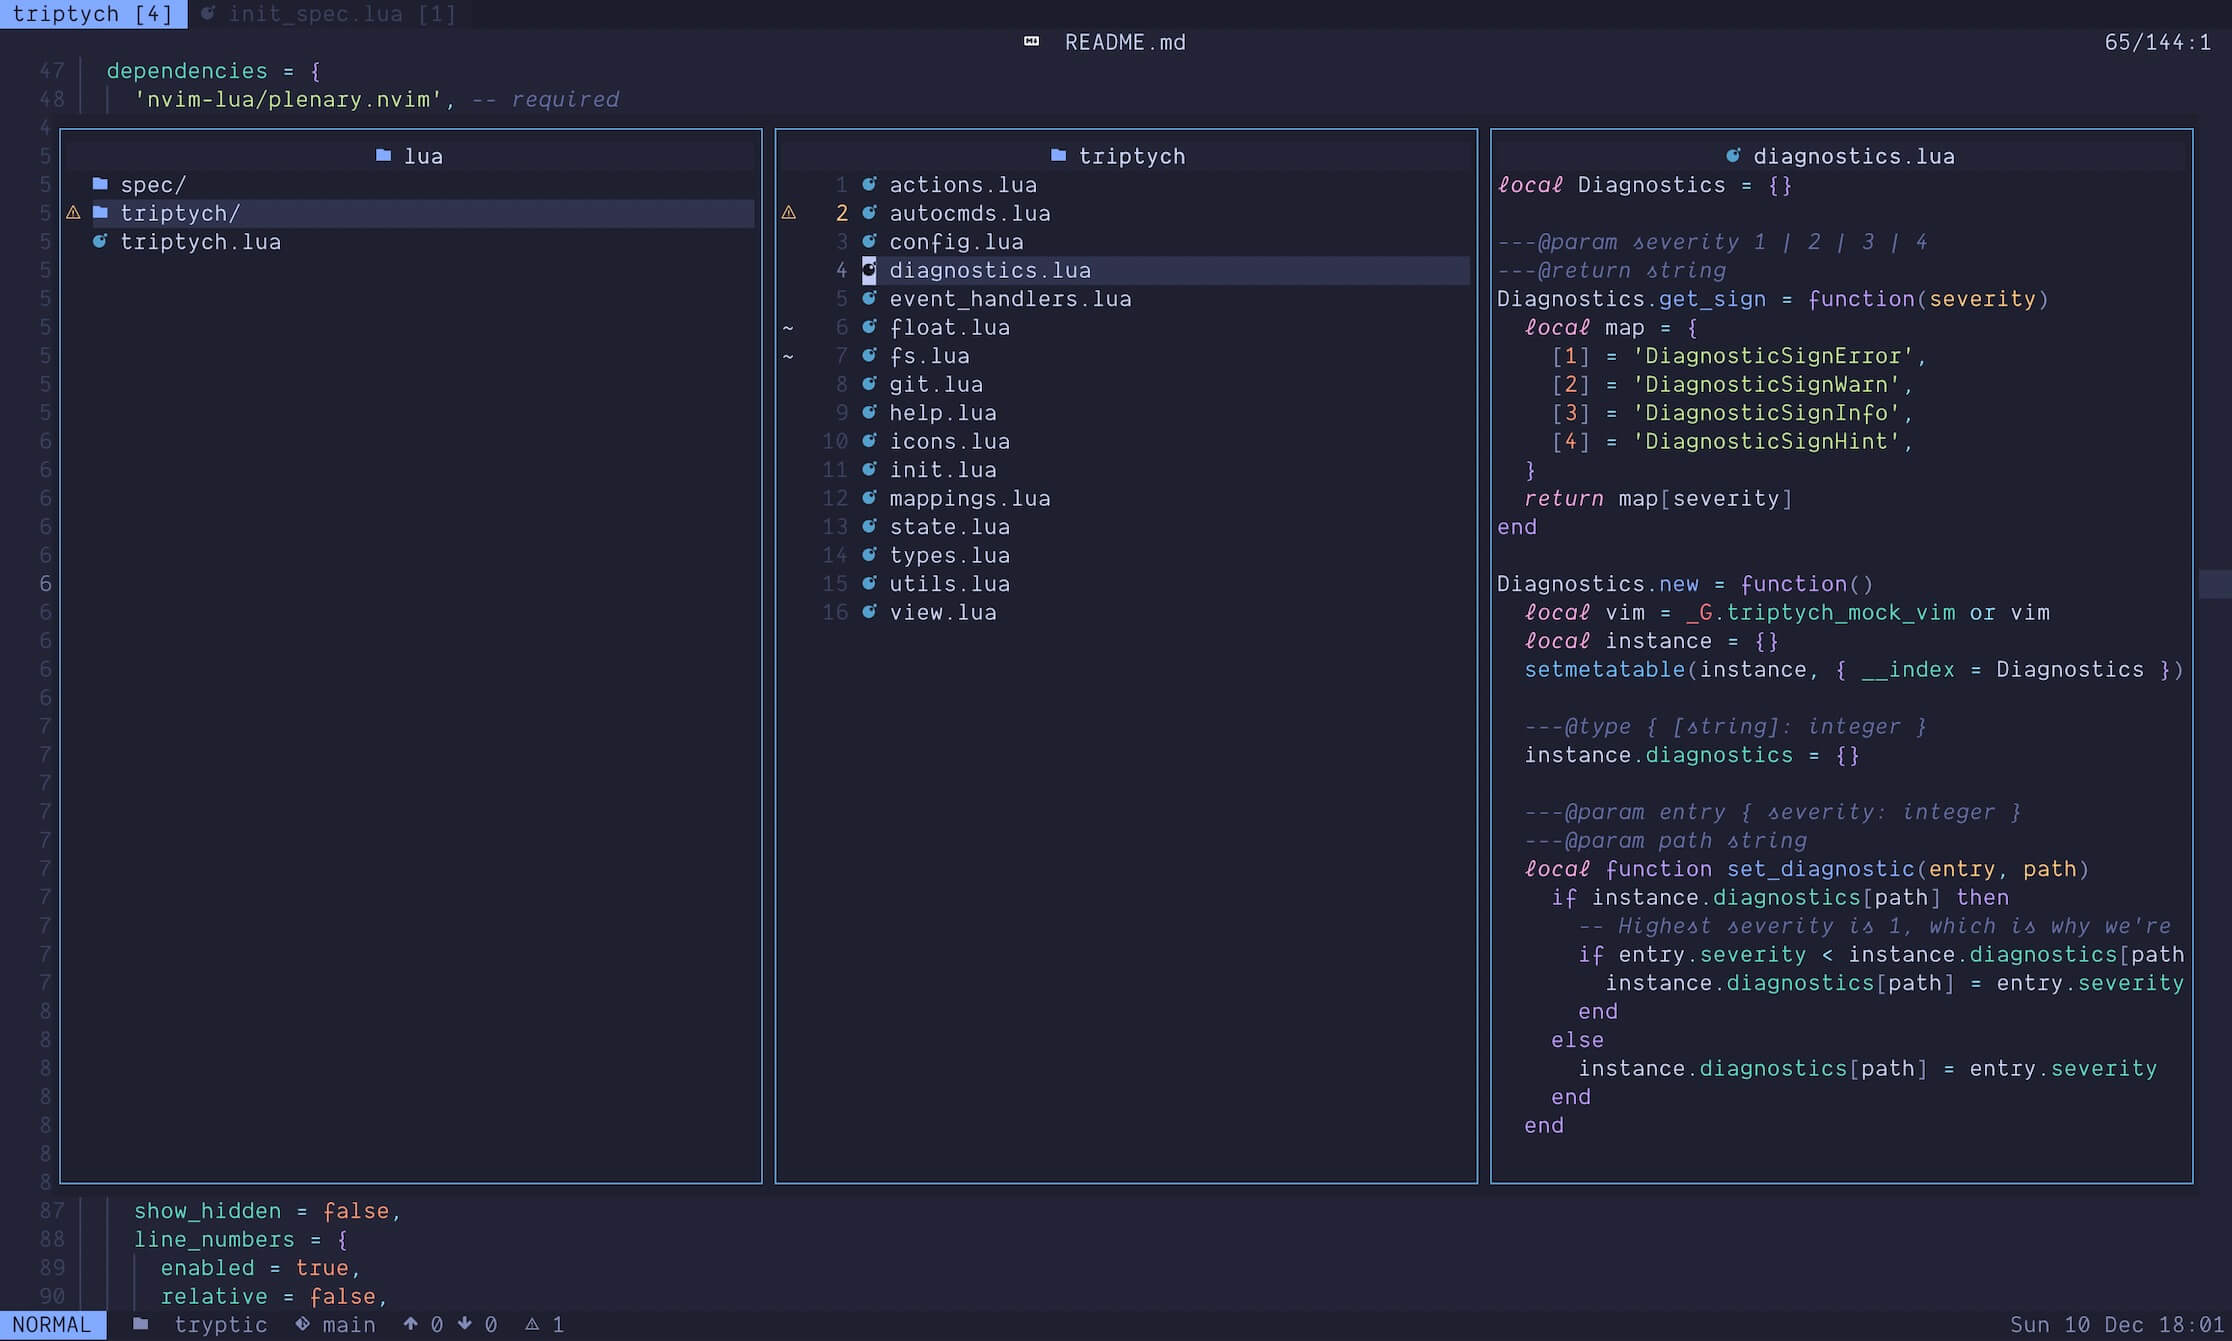
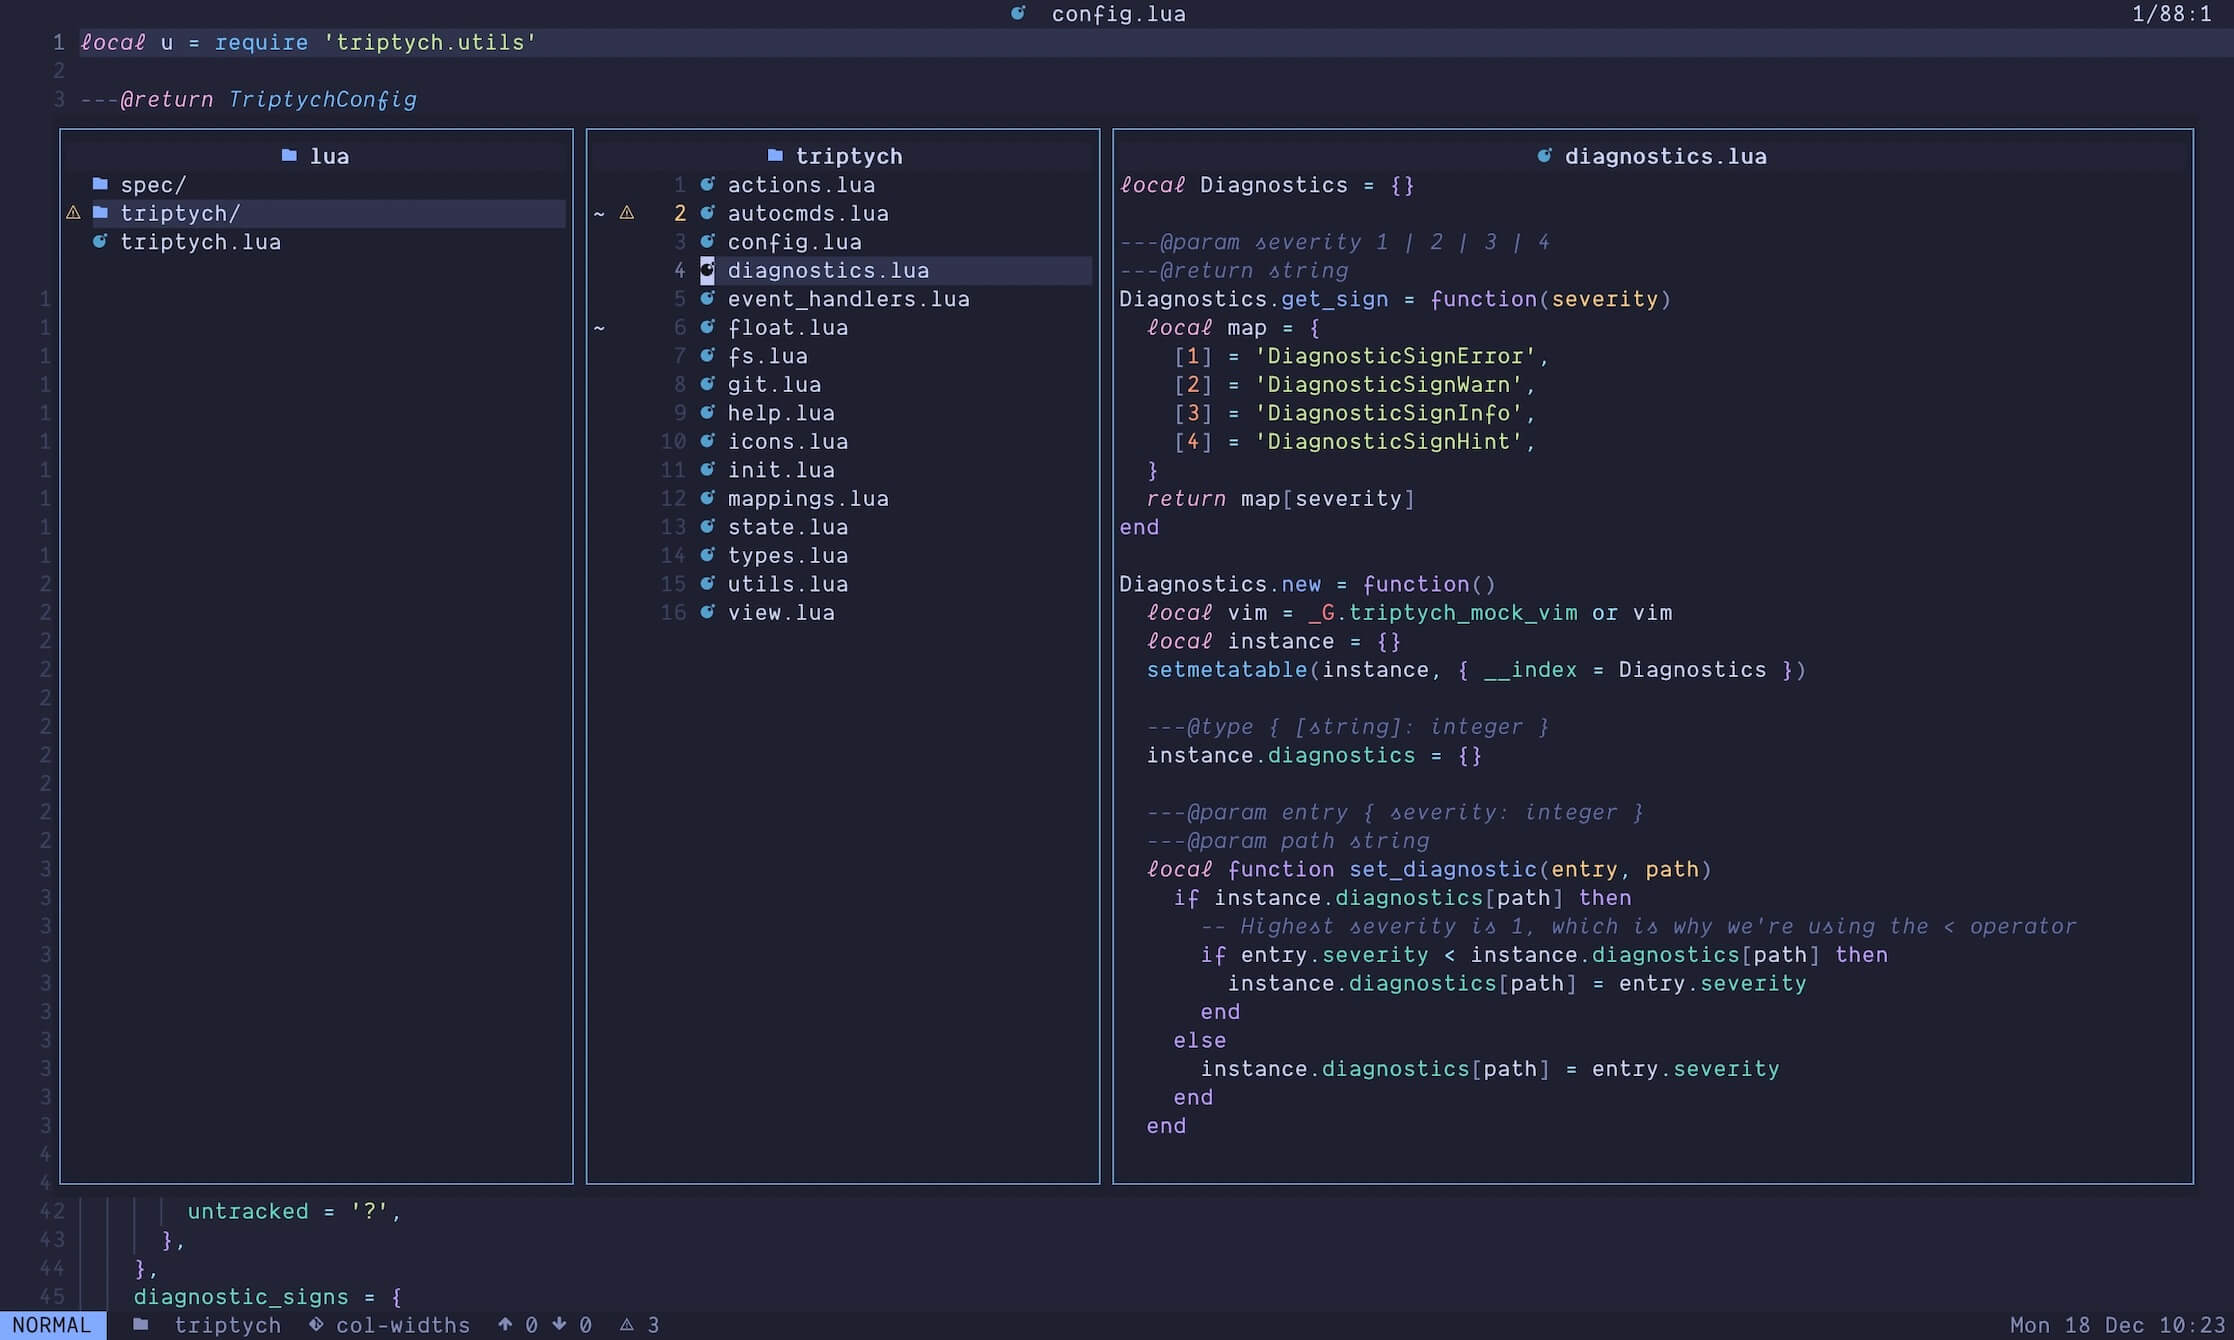
column_widths option (#10)
* column_widths option

* deduping

* update screenshot

---------

diff --git a/README.md b/README.md
@@ -100,7 +100,8 @@ require 'triptych'.setup {
       enabled = true,
       directory_icon = '',
       fallback_file_icon = ''
-    }
+    },
+    column_widths = { .25, .25, .5 }, -- Must add up to 1 after rounding to 2 decimal places
   },
   git_signs = {
     enabled = true,
